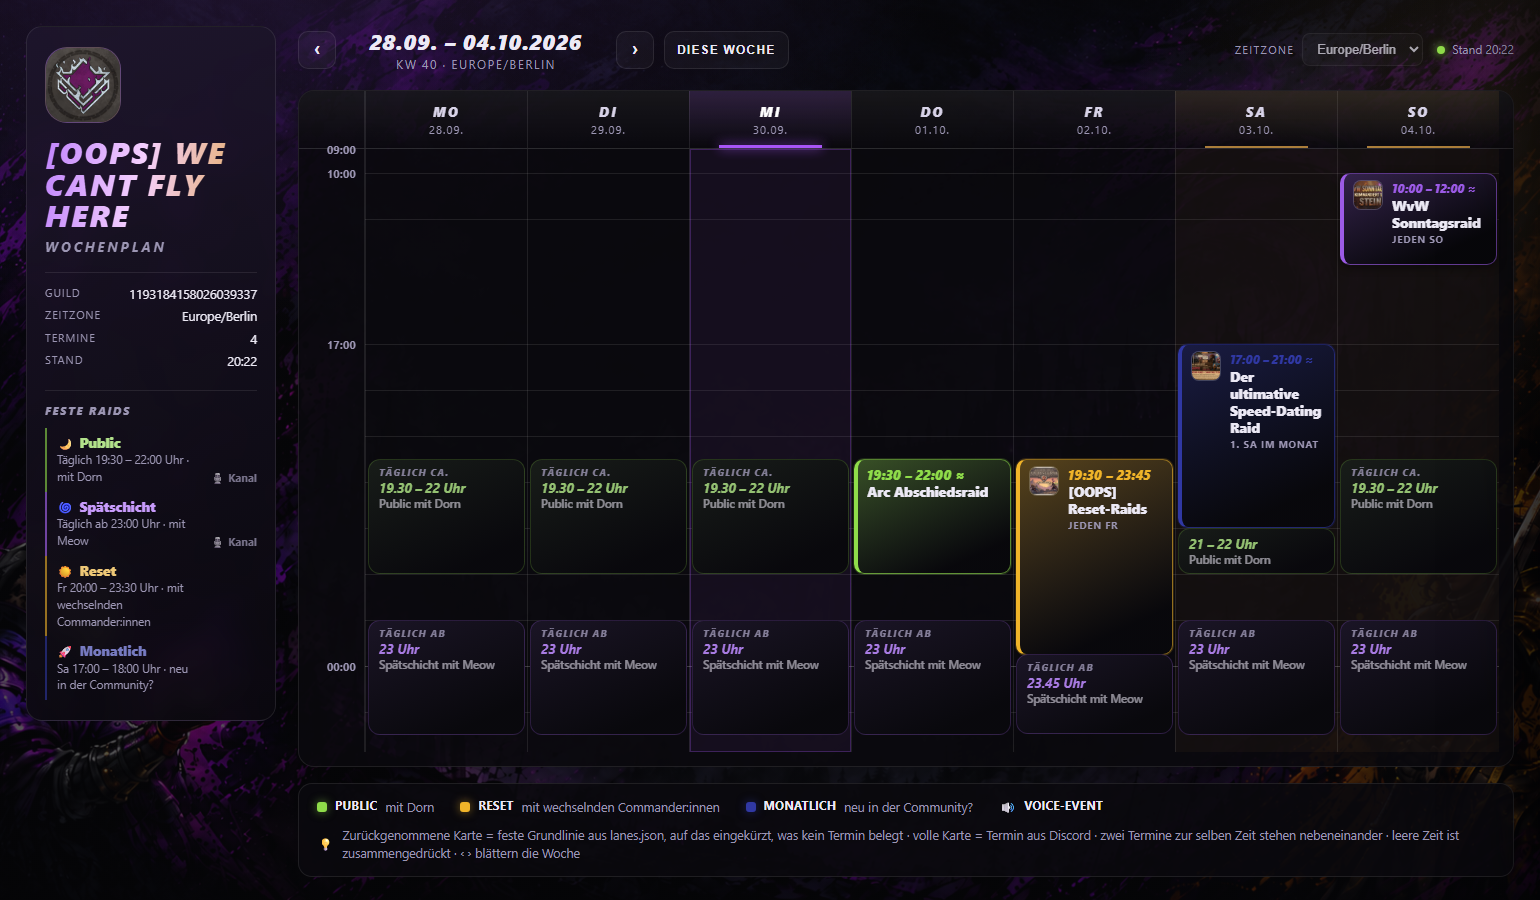
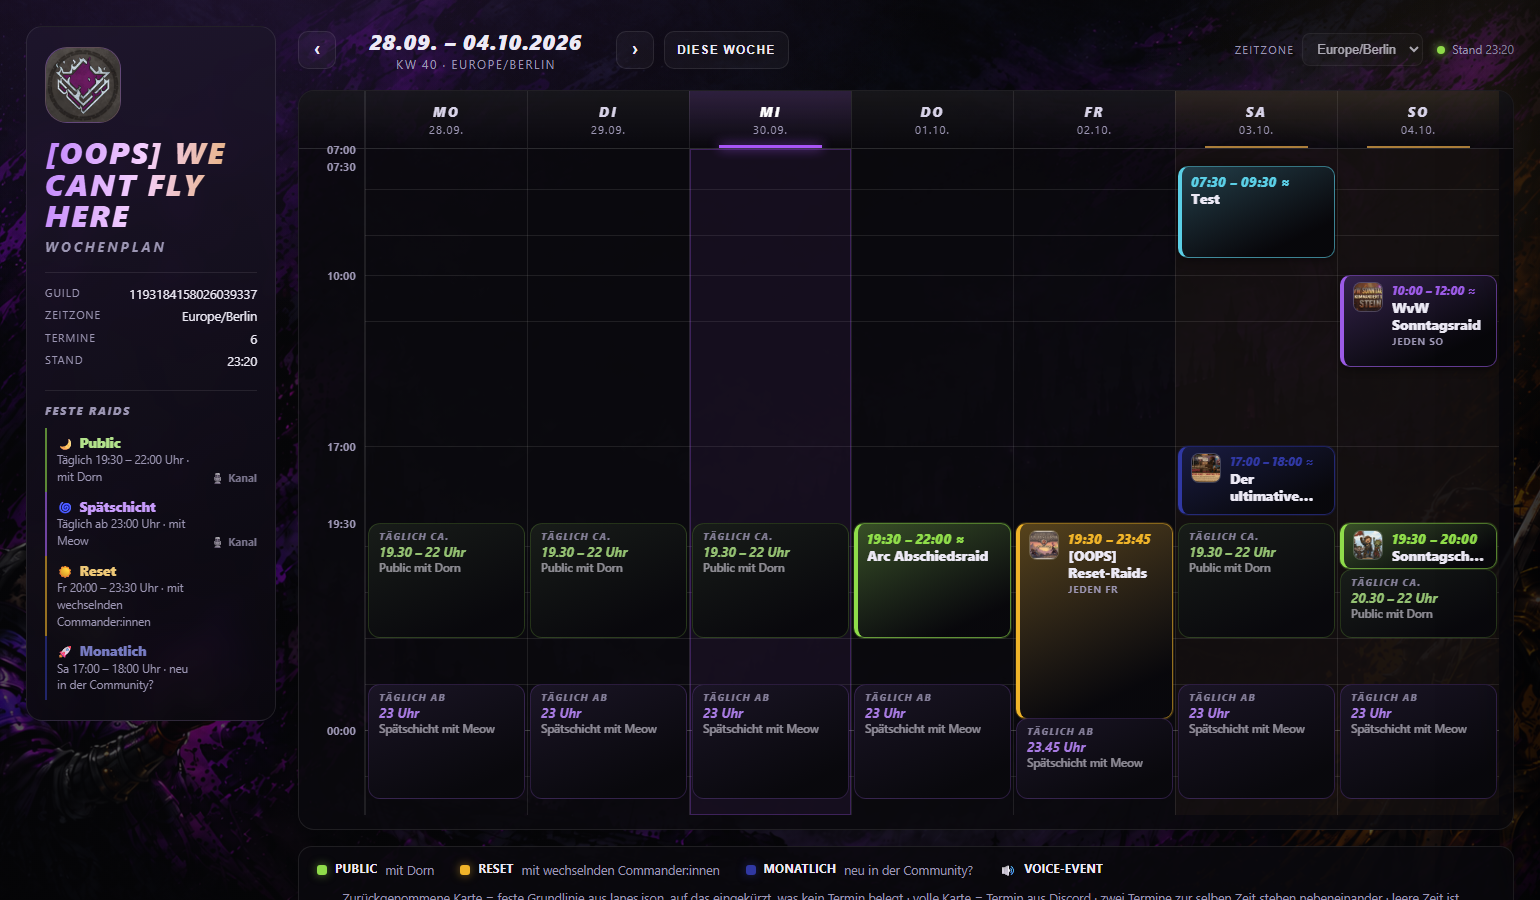
Aktualisiere Notizen in lanes.json für bessere Klarheit und Benutzererfahrung; passe Detailbeschreibung in app.js an, um die Notiz anzuzeigen.

diff --git a/public/app.js b/public/app.js
@@ -1412,7 +1412,7 @@ function openSlotDetail(lane) {
           `<div class="detail-row"><dt>${escapeHtml(label)}</dt><dd>${escapeHtml(value)}</dd></div>`,
       )
       .join('')}</div>
-    <p class="detail-description">Dieser Slot steht in <code>lanes.json</code>, nicht in Discord. Er erscheint hier, weil sonst niemand sähe, dass er stattfindet – und verschwindet, sobald ein echtes Raid darüberliegt.</p>
+    <p class="detail-description">${escapeHtml(lane.note)}</p>
     <p class="detail-footnote">Zeiten in ${escapeHtml(tz ?? '')}</p>
   `;
 
